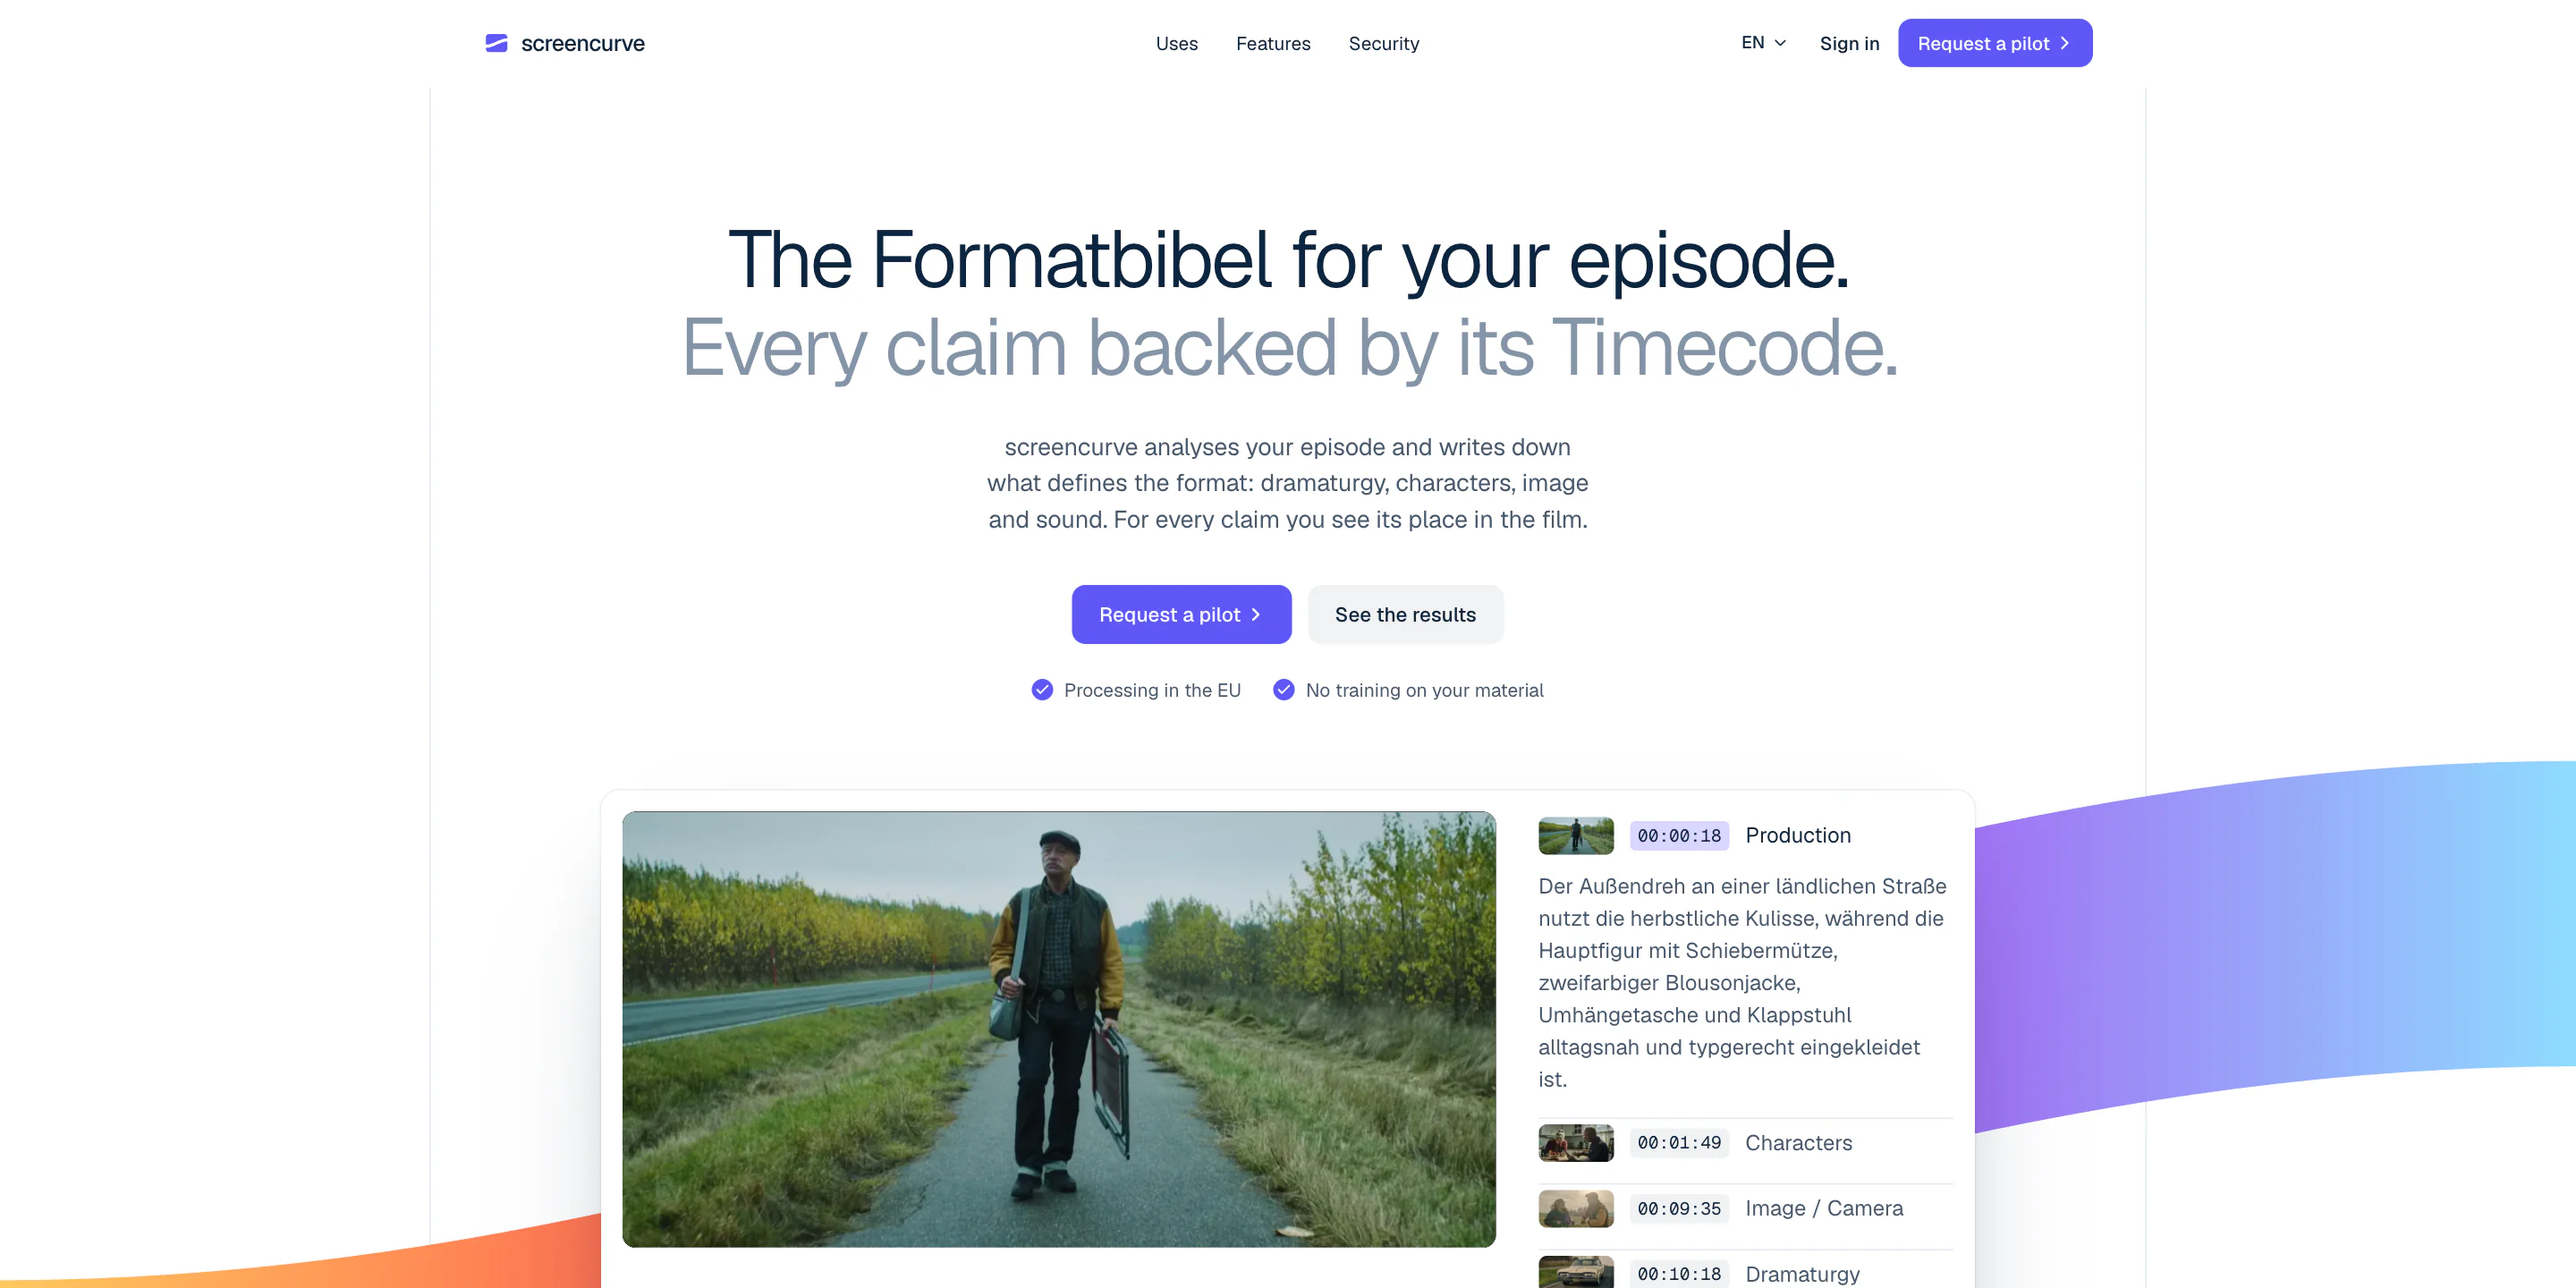
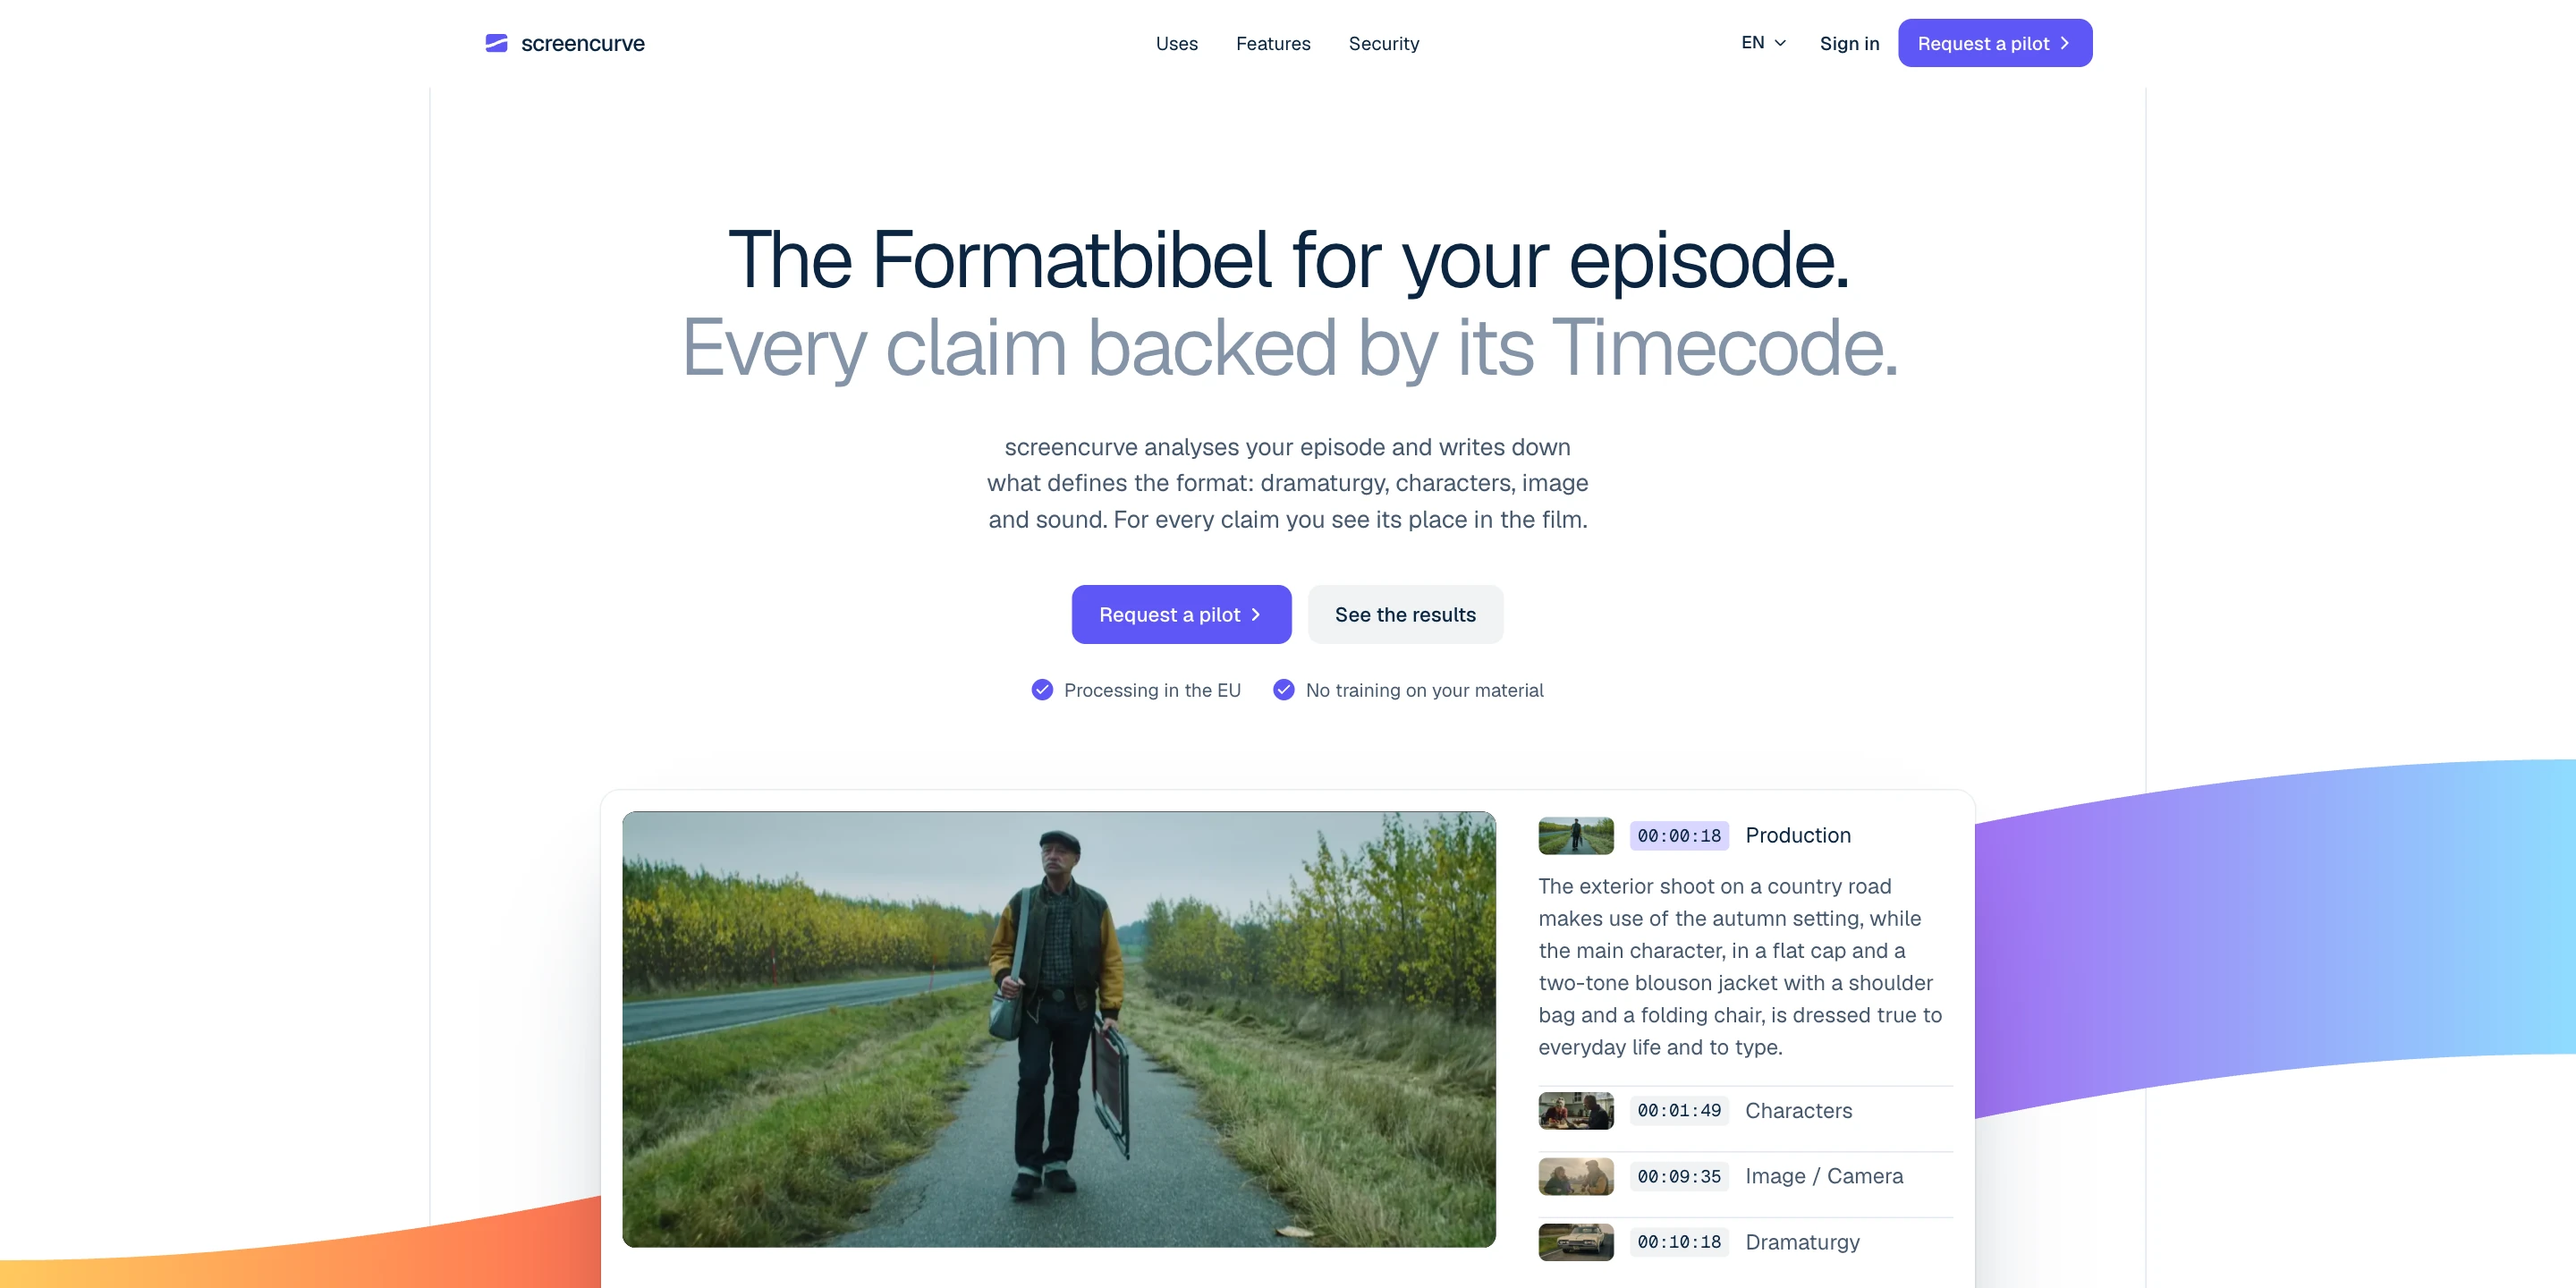
Recapture screencurve's English landing: its analysis text is English now
screencurve's /en showed the film's analysis in German. It reads in
English since screencurve-app#102, so the three pictures of the English
landing are captured again from the live page: the first screen (cover),
the share card and the whole page that scrolls in the case study and on
the hero wall. The German pictures are unchanged. A new cache tag, since
the files keep their names.

Changed region(s): [[0.5938, 0.6875, 0.75, 1.0], [0.0, 0.9062, 0.25, 1.0], [0.75, 0.8125, 1.0, 0.875]]

diff --git a/apps/web/src/data/asset-version.ts b/apps/web/src/data/asset-version.ts
@@ -2,7 +2,7 @@
  * picture is recaptured under the same name. `next/image` serves a local
  * picture only when its search matches a `localPatterns` entry, so
  * `next.config.ts` builds those entries from the same constant. */
-export const SCREENCURVE_VERSION = "20261116-light";
+export const SCREENCURVE_VERSION = "20261117-english";
 
 /** The paths `next.config.ts` lets through with the tag. */
 export const SCREENCURVE_PATTERNS = [
